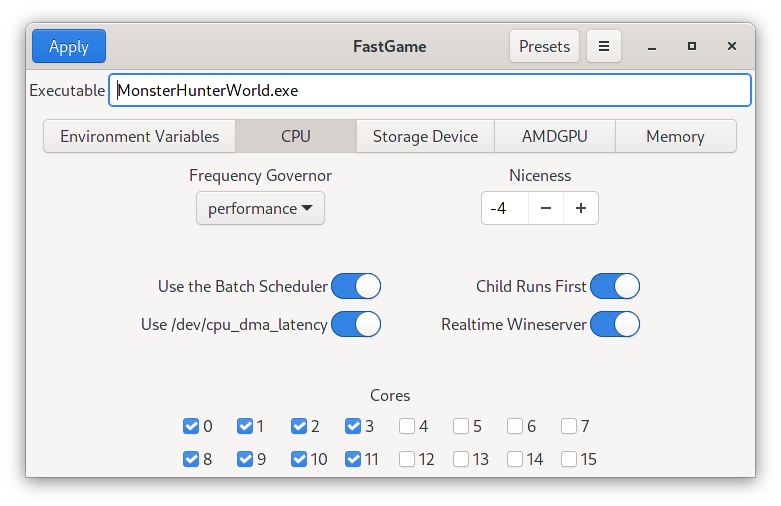
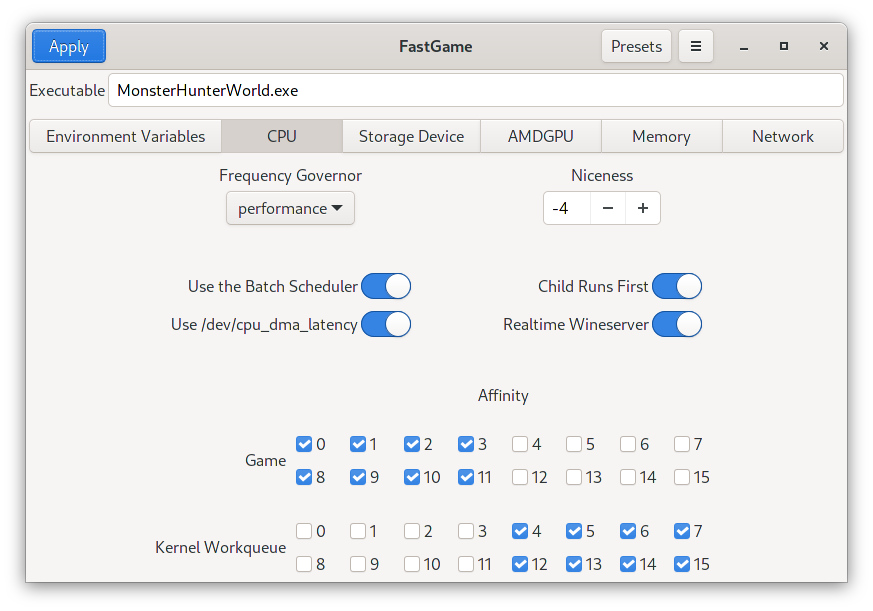
updated readme

diff --git a/README.md b/README.md
@@ -29,7 +29,8 @@ you have to do is putting this `fastgame_launcher %command%` in the launch optio
 # Features
 
 - Set Environment variables like `RADV_PERFTEST`
-- Easy cpu affinity configuration
+- Game cpu affinity configuration
+- Kernel workqueue cpu affinity configuration
 - Change the cpu frequency governor
 - Change the process niceness
 - Use /dev/cpu_dma_latency to avoid deep C-States
